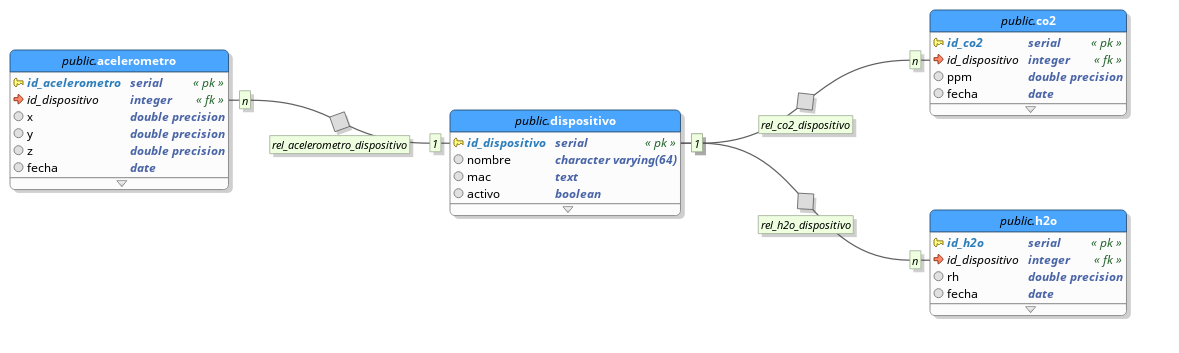
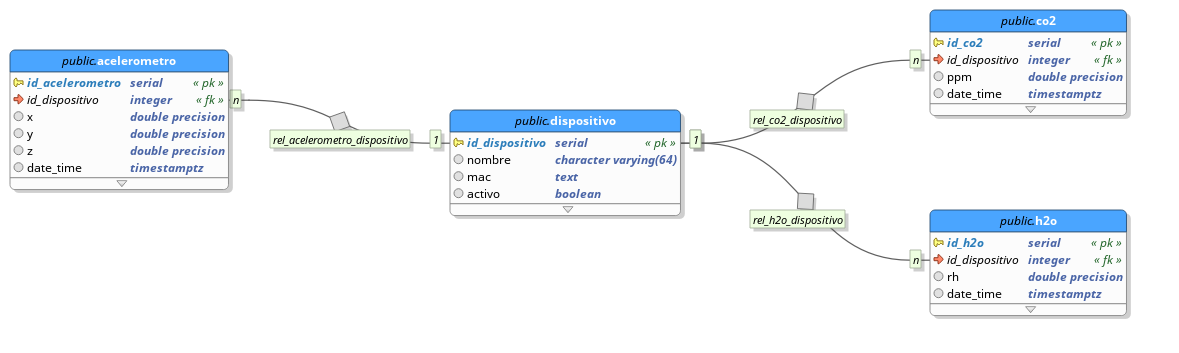
Cambios para la fecha

diff --git a/main.py b/main.py
@@ -23,6 +23,10 @@ while conn.is_connect() and id_dispositivo is not None:
 
 	if conn.is_connect():
 		cur = conn.cursor()
+		'''
+		SET TIMEZONE='America/El_Salvador';
+		SELECT NOW();
+		'''
 		cur.execute('select * from acelerometro')
 		for r in cur.fetchall():
    			print("Data is : ",r[0], r[1], r[2], r[3], r[4])
